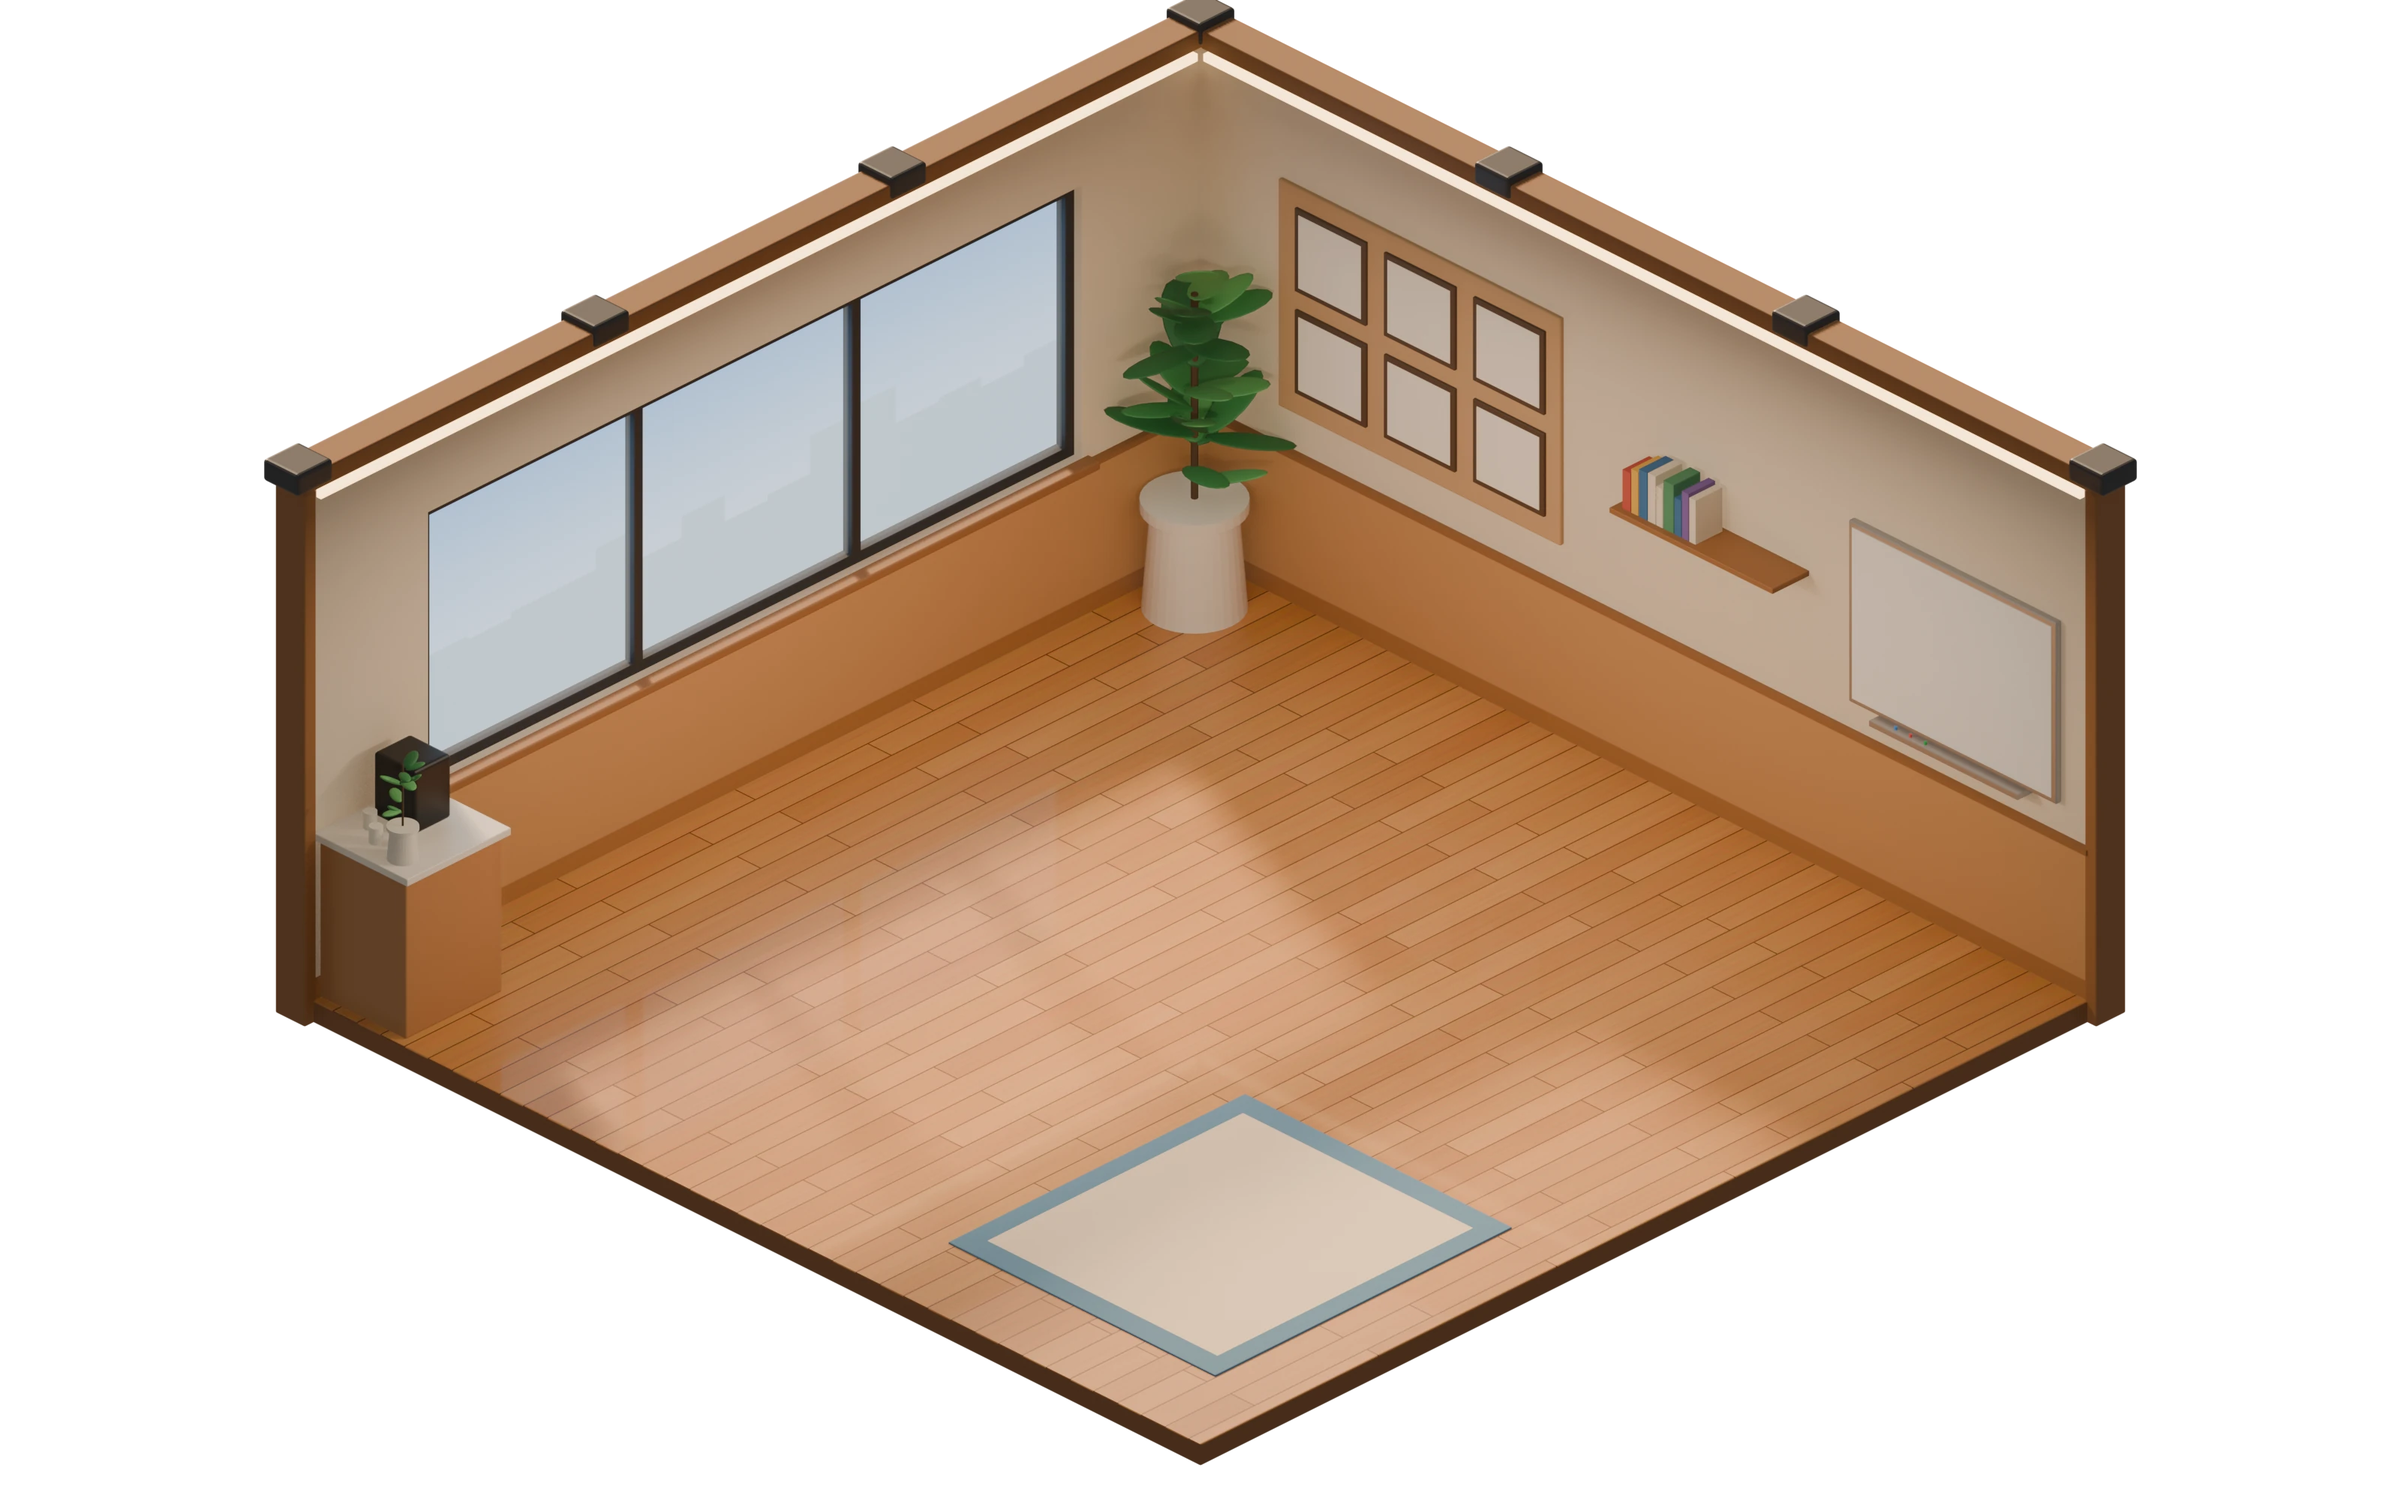
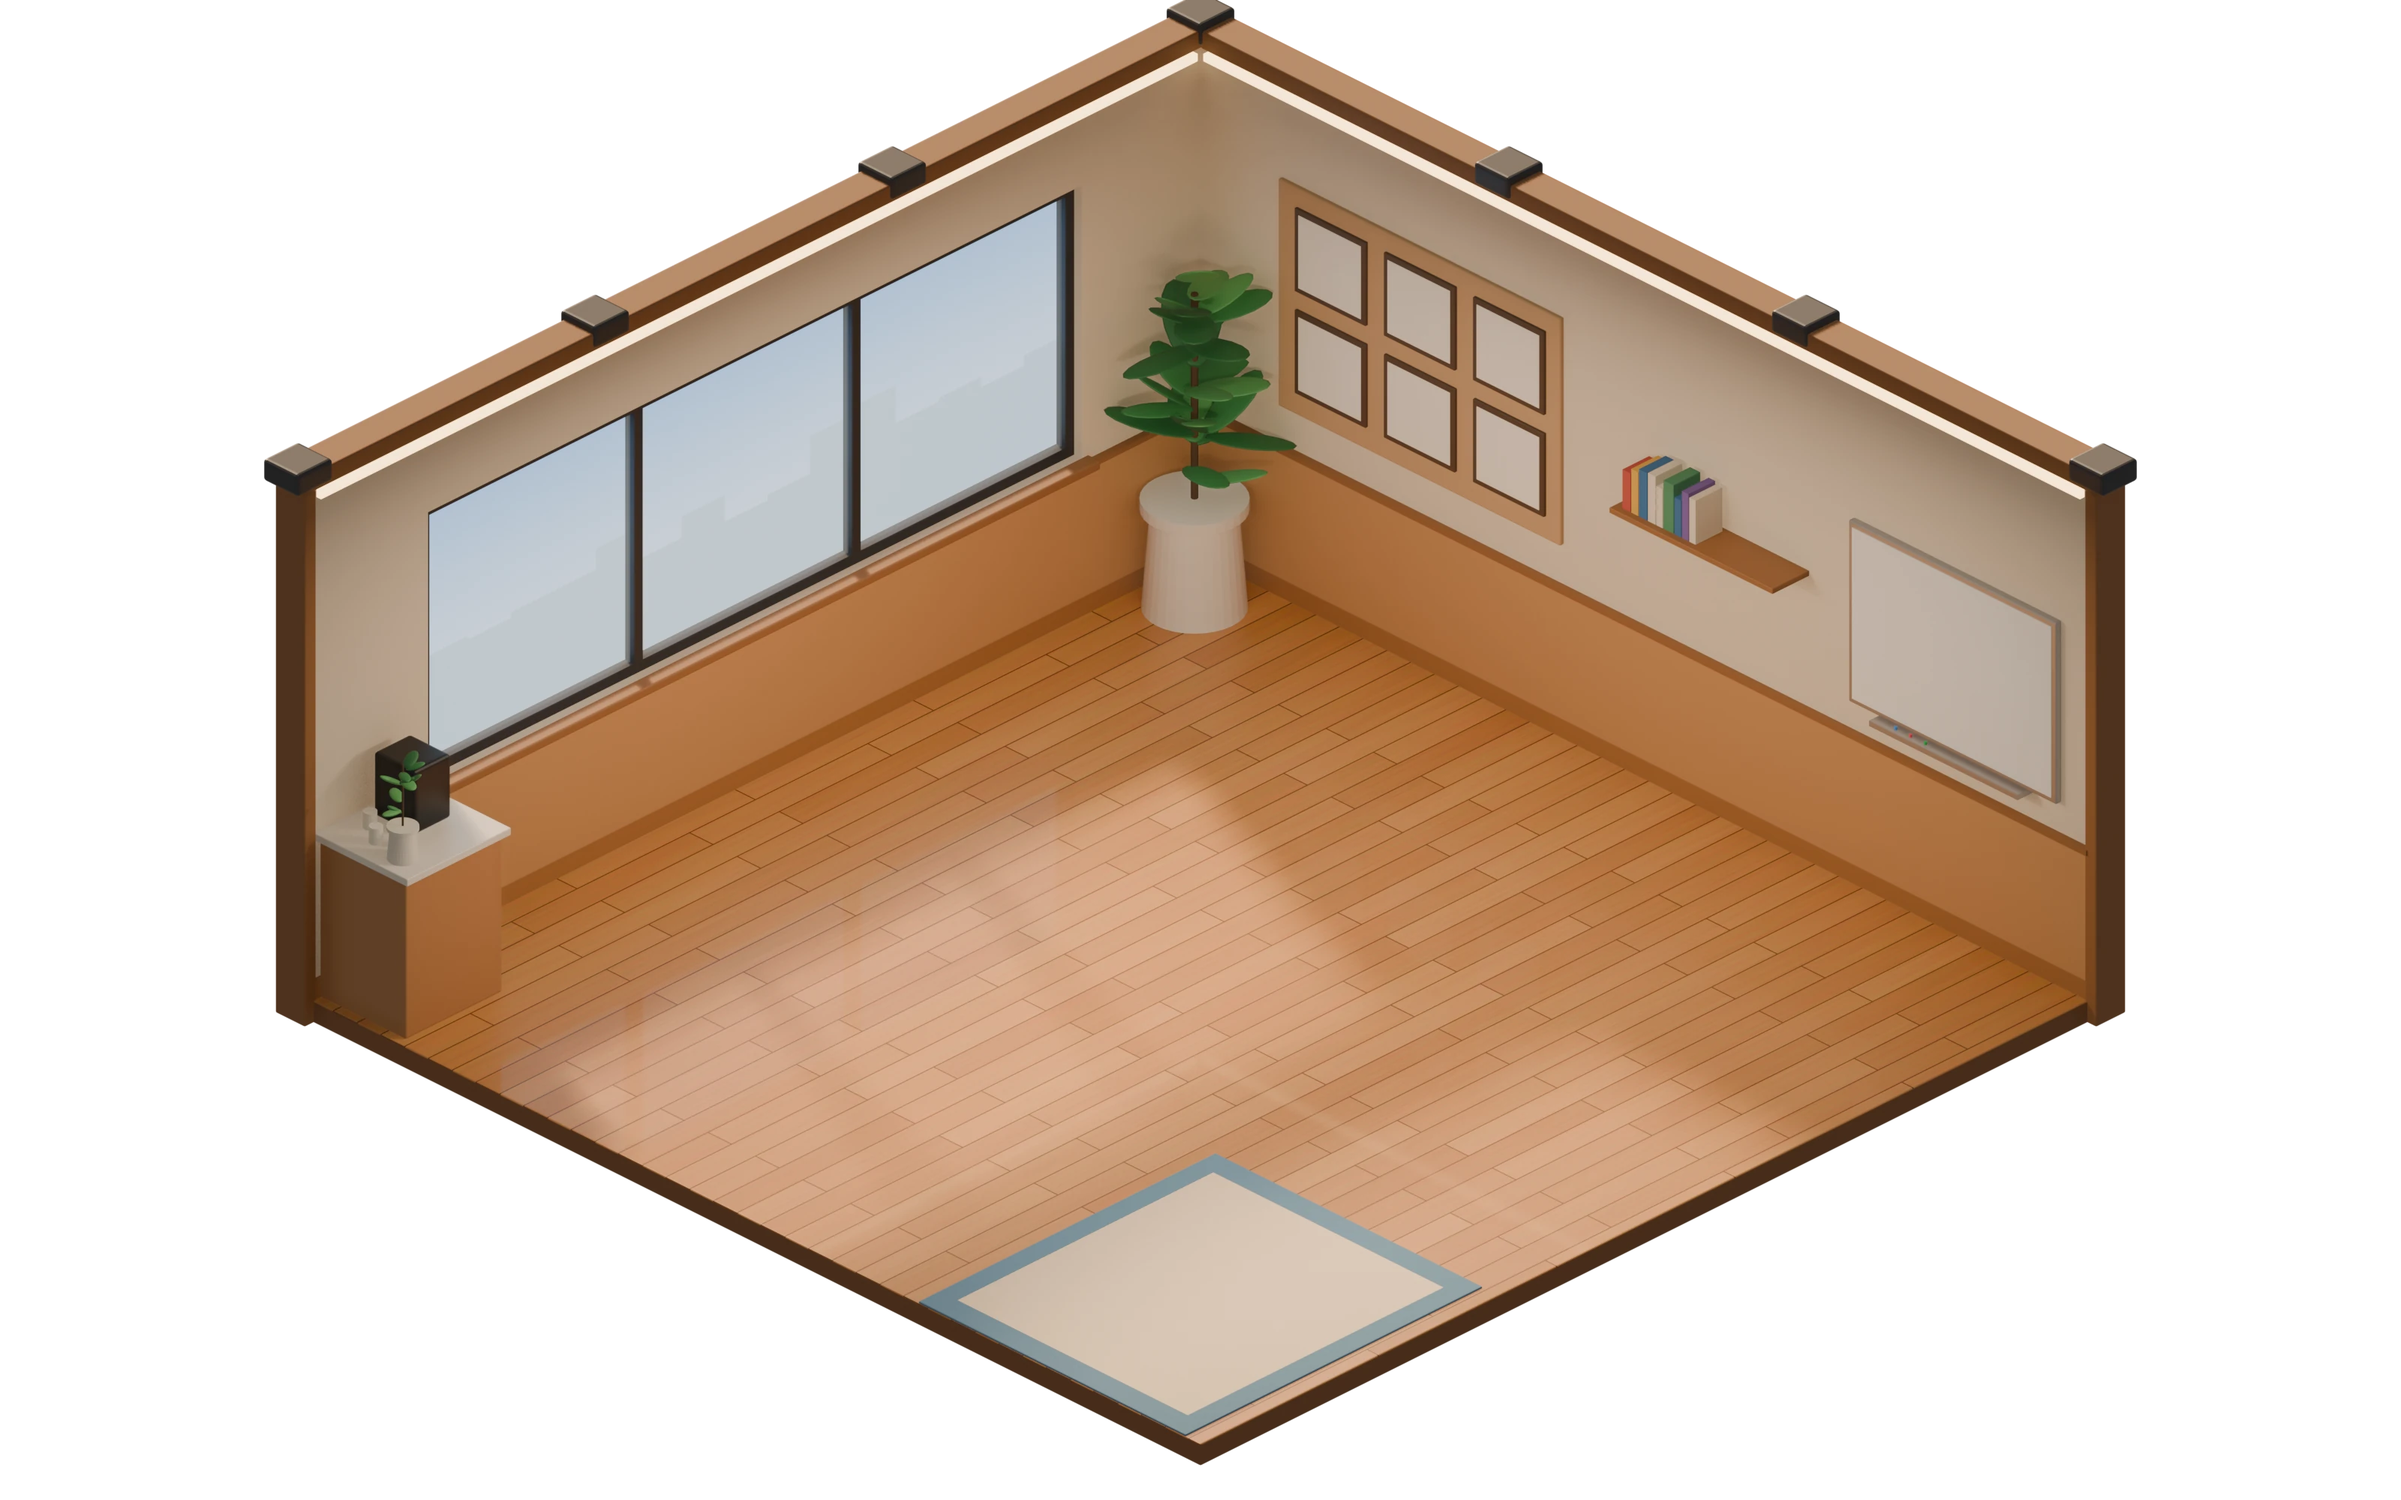
Desks in rows: two benches facing the same way
Members sat wherever a desk had been dropped, half of them turned another
way. Desks now stand side by side in two rows, all facing the camera: two
benches of two for up to four members, of three for five or six. The
meeting corner moved to the front of the room, out of the rows' way.

Changed region(s): [[0.375, 0.713, 0.625, 0.961]]

diff --git a/windows/src/team/office/scene.ts b/windows/src/team/office/scene.ts
@@ -52,14 +52,22 @@ function toScreen(x: number, y: number, z = 0) {
   return { x: H(w.x0 + (y - x) * w.perMetreX), y: H(w.y0 + (x + y) * w.perMetreY - z * w.perMetreZ) };
 }
 
-/** Where members sit, in metres on the floor; members beyond these wait their turn for a bigger room (P1). */
-export const DESKS: { x: number; y: number; facing: "SE" | "SW" }[] = [
-  { x: 1.6, y: 1.1, facing: "SE" },
-  { x: 4.2, y: 1.1, facing: "SE" },
-  { x: 1.1, y: 3.8, facing: "SW" },
-  { x: 3.4, y: 2.9, facing: "SE" },
-  { x: 5.2, y: 2.9, facing: "SE" },
-];
+/**
+ * Where members sit, in metres on the floor: rows of desks, all facing the
+ * same way, like an office: desks side by side form a bench per row. Up
+ * to four take two benches of two; five or six two benches of three. Members beyond six wait for a bigger room (P1).
+ */
+type Desk = { x: number; y: number; facing: "SE" | "SW" };
+const ROWS = [1.1, 3.1];
+export const MAX_DESKS = 6;
+export function desksFor(count: number): Desk[] {
+  // Desks side by side make one long bench per row: 1.4 m apart, as long as a desk.
+  const cols = count <= 4 ? [2.3, 3.7] : [1.6, 3.0, 4.4];
+  const all = ROWS.flatMap((y) => cols.map((x) => ({ x, y, facing: "SE" as const })));
+  // Fill a whole row before the next; two in a row of three sit at its ends.
+  if (count === 5) return [all[0], all[1], all[2], all[3], all[4]];
+  return all.slice(0, Math.max(0, Math.min(count, MAX_DESKS)));
+}
 
 // ── What a status looks like ──────────────────────────────────────────────────
 
@@ -187,8 +195,8 @@ export class TeamScene {
   }
 
   /** The member's place: its desk, or — planning — the whiteboard. */
-  private place(m: MemberSnapshot, i: number) {
-    const desk = DESKS[i];
+  private place(m: MemberSnapshot, i: number, count: number) {
+    const desk = desksFor(count)[i];
     return { desk, standing: m.workStatus === "planning" && art ? art.room.spots.whiteboard : null };
   }
 
@@ -202,9 +210,10 @@ export class TeamScene {
     // Everything per member is drawn afresh; only the Mochis carry over.
     this.stage.querySelectorAll(".office-ws, .office-screen, .office-shadow").forEach((n) => n.remove());
     this.overlay.querySelectorAll(".office-label").forEach((n) => n.remove());
-    members.slice(0, DESKS.length).forEach((m, i) => {
+    const seated = members.slice(0, MAX_DESKS);
+    seated.forEach((m, i) => {
       keep.add(m.memberId);
-      this.drawMember(m, i, m.memberId === team.leaderMemberId);
+      this.drawMember(m, i, seated.length, m.memberId === team.leaderMemberId);
     });
     for (const [id, actor] of this.actors) {
       if (!keep.has(id)) {
@@ -217,9 +226,9 @@ export class TeamScene {
     wake();
   }
 
-  private drawMember(m: MemberSnapshot, i: number, leader: boolean) {
+  private drawMember(m: MemberSnapshot, i: number, count: number, leader: boolean) {
     const a = art!;
-    const { desk, standing } = this.place(m, i);
+    const { desk, standing } = this.place(m, i, count);
     const ws = a.workstations[desk.facing];
     const at = toScreen(desk.x, desk.y);
     const ox = at.x - H(ws.groundPivot[0]);

diff --git a/windows/src/team/office/office.ts b/windows/src/team/office/office.ts
@@ -12,7 +12,7 @@ import type { CommandRecord, MemberSnapshot, Message, TeamRun, Capabilities } fr
 import { OfficeStore } from "./store";
 import { RealAdapter } from "./adapter-real";
 import { MockAdapter } from "./adapter-mock";
-import { loadArt, STATUS, TeamScene, wake } from "./scene";
+import { loadArt, MAX_DESKS, STATUS, TeamScene, wake } from "./scene";
 import type { Snapshot, TeamFile } from "../types";
 
 export interface OfficeHost {
@@ -296,7 +296,7 @@ export class Office {
       : caps.canResume
         ? h("button", { class: "btn primary", type: "button", onClick: () => void this.command(teamId, "resume") }, "繼續")
         : h("button", { class: "btn plain", type: "button", disabled: true, title: caps.unavailableReasons.pause ?? "" }, run?.status === "pausing" ? "暫停中…" : "暫停團隊");
-    const extra = members.length > 5 ? h("p", { class: "dim", text: `另外 ${members.length - 5} 位成員還沒有工位(房間最多 5 張桌子),在下方名單裡。` }) : null;
+    const extra = members.length > MAX_DESKS ? h("p", { class: "dim", text: `另外 ${members.length - MAX_DESKS} 位成員還沒有工位(房間最多 ${MAX_DESKS} 張桌子),在下方名單裡。` }) : null;
     const roster = h(
       "div",
       { class: "office-roster", role: "list", "aria-label": "團隊成員" },
